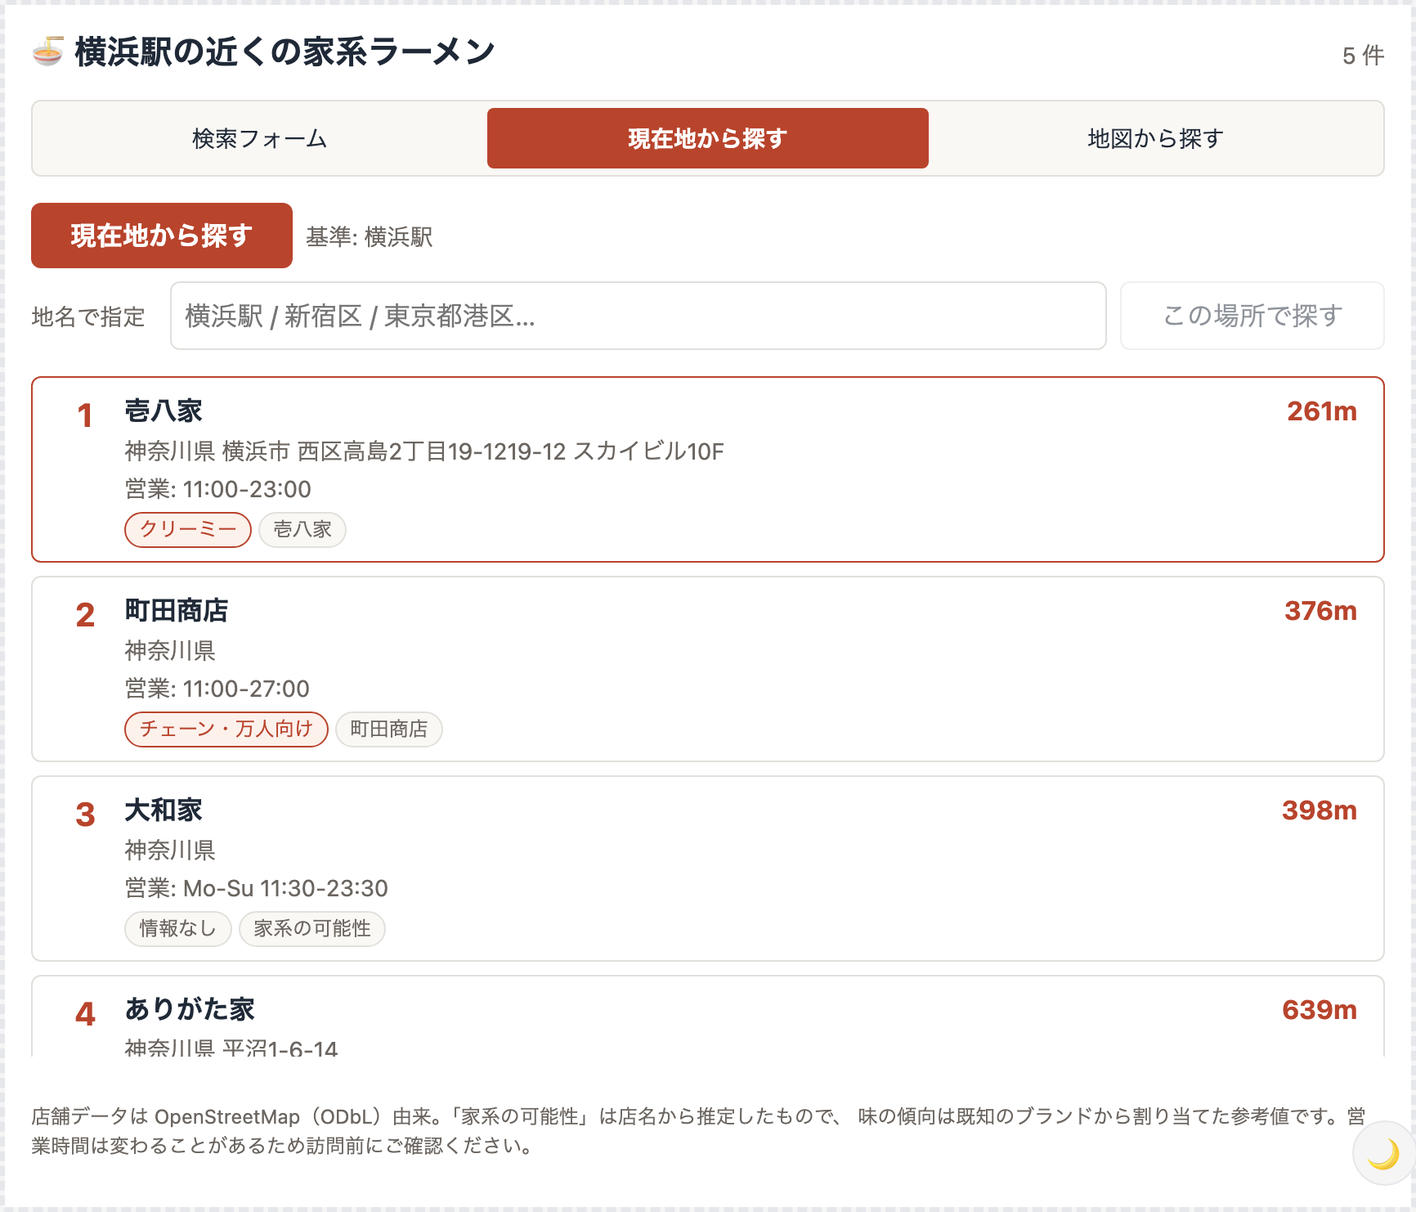
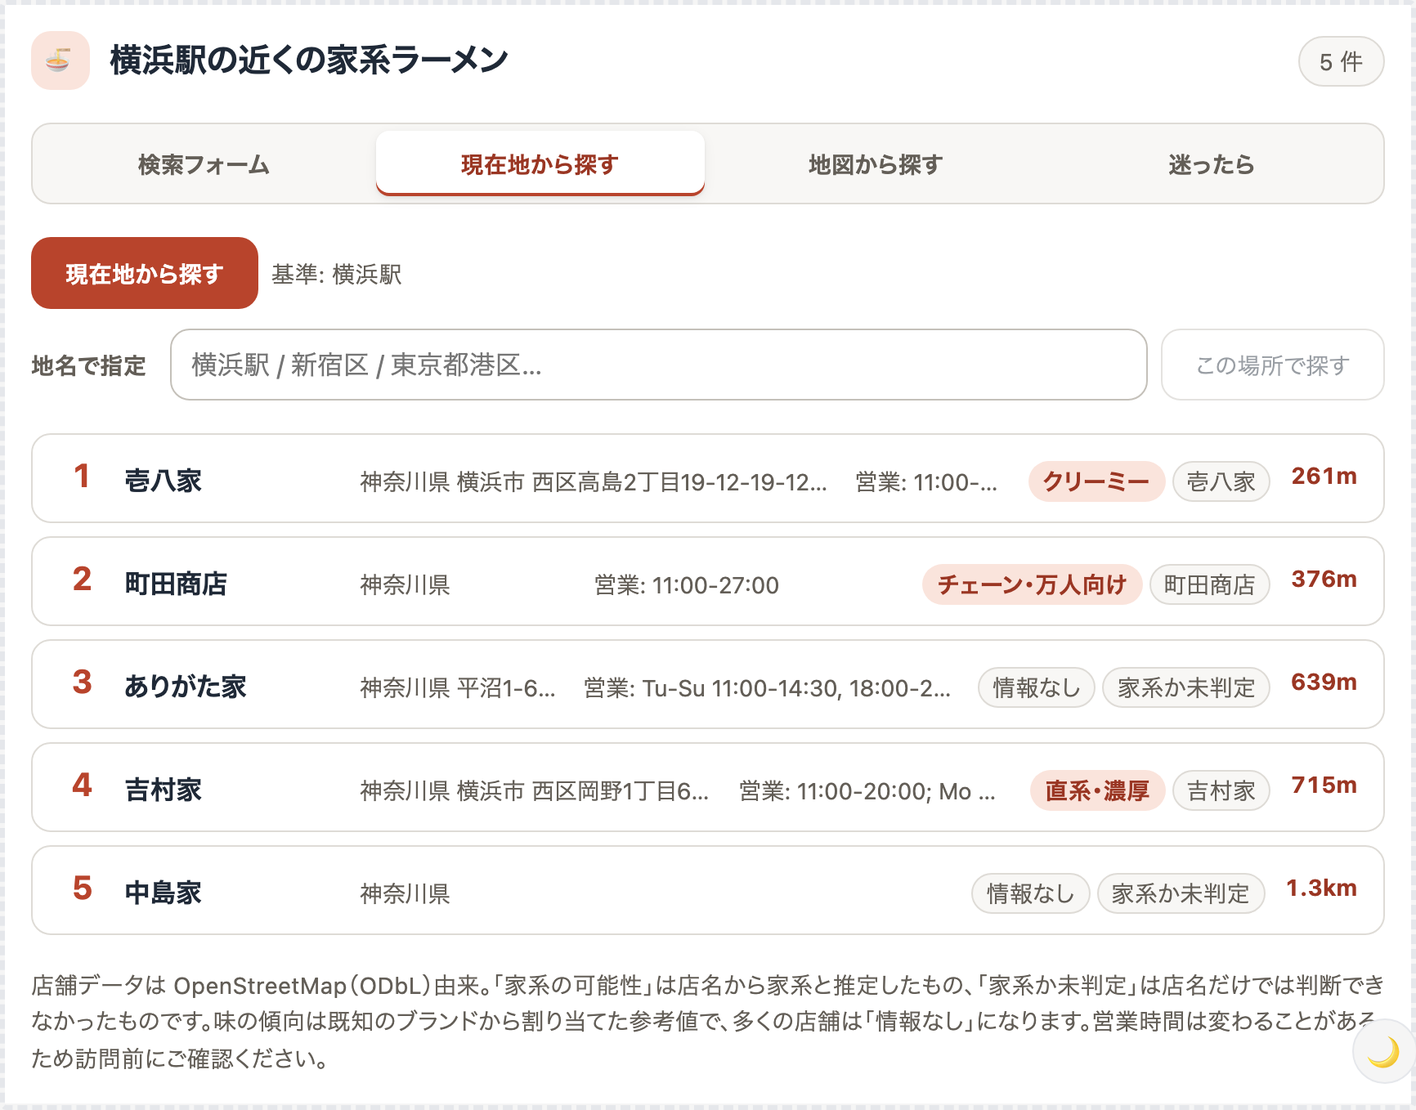
広いホストでカードを 1 行に収め、README を今の姿に合わせる (#16)
ChatGPT で「窮屈で見づらい」と言われたのを測ったところ、幅を活かせていな
かった。幅 1400px でもカード 1 枚が 108px を使い、一覧に 4 枚弱しか入らない
（横に 1000px 以上空いたまま縦に伸びる）。

  幅 1200px: カード 108px → 55px、見えるカード 3.9 → 7.6 枚

40rem 以上のときだけ、カードの中身（店名 / 住所・営業 / バッジ）を 1 行に
並べる。狭いホストは縦積みのまま。**カードを多列に割る案は採らない。**
詳細を「選んだカードの直下・同じ枠の中」に出す決まりが崩れ、枠を 2 つにする
作り（一度やって作り直した形）に戻るため。列を増やすより 1 枚を薄くする。

1 行を保つのは white-space: nowrap、溢れを防ぐのは min-width: 0。折り返しを
許すと 20 文字超の店名が 2 行になり（55px → 78px）、逆に店名を縮めないと
縮まない要素だけで幅を超えて一覧が横へ溢れる。どちらも 1 行にした意味を壊す。
削られる順番は flex-basis が決める（住所 0 = 余った幅だけ、店名 auto = 中身の幅）。

README は 3 モード時代のままだったので、今の姿に合わせた:

- スクリーンショット 4 点はいずれも 9/12 生成で、タブが 3 つだった頃の画面
- tool 一覧に decide-iekei-ramen が無い（5 つあるのに 4 つ）
- 「迷ったら」「まわる店」がどこにも書かれていない
- 撮影の仕組み自体も 3 モードしか撮っていなかった

docs/decide.png と docs/route.png を足し、既存 3 点と GIF を撮り直した。GIF は
流れが伸びて 3.6MB まで膨らんだので、幅 720px・128 色で 2.3MB に収めた。

CI の警告 12 件も消した。no-await-in-loop（E2E で 10 件）は scripts/**.mjs では
off にしてあるのに e2e/** に入れ忘れていたもので、UI の操作は順番に走らせる
必要があるので同じ扱いにする。actions/cache と upload-artifact だけ v4 のまま
だったので v5 に揃え、成功時に playwright-report/ が無いのにアップロードして
いたのを failure() のときだけにした。

**見落としていたのは検証のやり方が原因。** oxlint は警告があっても終了コード 0
を返すので、出力を error だけで拾うと通過に見える。npm run lint に
--deny-warnings を付けて、警告も終了コードに出るようにした。

レビューで見つかった 2 件も直した。どちらも「1 行に収める」と引き換えに別の
ものを壊していた:

- 40rem 直上で長い店名が 2 行に折り返す（1200px のテストでは素通りしていた）
- 店名を縮めない形にしたら、今度は横へ溢れる余地を作った

途中で flex-shrink の比（1 対 1000）を入れたが、比を戻して測っても店名の幅は
1px も動かず、効いていなかったので消した。順番を決めているのは flex-basis の方。

検証: ユニット 173 件 / E2E 67 件 / react-doctor 100 点 / design 指摘ゼロ、
[…]

diff --git a/e2e/app.spec.ts b/e2e/app.spec.ts
@@ -917,6 +917,97 @@ test.describe("選択中の店の詳細", () => {
   });
 });
 
+test.describe("一覧の詰め方", () => {
+  /*
+   * ChatGPT のような広いホストで「窮屈で見づらい」と言われたのがきっかけ。
+   * 幅が 1400px あってもカード 1 枚が 108px を使い、一覧に 4 枚弱しか
+   * 収まっていなかった（横に 1000px 以上空いたまま縦に伸びていた）。
+   */
+  test("広いホストでは、カードを 1 行に収めて数を見せる", async ({ page }) => {
+    await page.setViewportSize({ width: 1200, height: 820 });
+    const app = await callTool(page, "search-iekei-ramen", { prefecture: "神奈川県" });
+    await waitForApp(app);
+
+    const card = await shopCards(app).first().boundingBox();
+    expect(card).not.toBeNull();
+    // 縦積みだと 108px。1 行に並べれば半分ほどに収まる。
+    expect(card!.height).toBeLessThan(70);
+
+    // 同じ一覧の高さに倍近く並ぶ。
+    const list = await app.locator("ul").first().boundingBox();
+    expect(list!.height / card!.height).toBeGreaterThan(6);
+  });
+
+  test("横に並べ始めた直後の幅でも、長い店名を折り返さない", async ({ page }) => {
+    /*
+     * 40rem を少し超えたあたりが一番きつい。順位番号・バッジ・距離も同じ行に
+     * 並ぶので、店名に縮む指定（flex: 0 1 auto）を残していると真っ先に詰められ、
+     * 20 文字超の店名が 2 行になってカードが 55px → 78px に戻る。
+     *
+     * 広い幅（1200px）で短い店名だけ見ていても、この状態は捕まえられない。
+     */
+    await page.setViewportSize({ width: 720, height: 900 });
+    // 「横浜家系ラーメン 町田商店 柴田バイパス店」（21 文字）が 1 軒目に来る地点。
+    const app = await callTool(page, "find-nearby-iekei-ramen", {
+      lat: 38.0626,
+      lon: 140.7613,
+      label: "柴田",
+      source: "place",
+      limit: 5,
+    });
+    await waitForApp(app);
+    await expect(shopCards(app).first()).toContainText("柴田バイパス店");
+
+    const heights = await shopCards(app).evaluateAll((els) =>
+      els.map((e) => Math.round(e.getBoundingClientRect().height)),
+    );
+    // 1 行に収まっていれば 55px 前後。折り返すと 78px 以上になる。
+    expect(Math.max(...heights)).toBeLessThan(70);
+  });
+
+  test("横に並べても、一覧を横へ溢れさせない", async ({ page }) => {
+    /*
+     * 店名を縮めない指定にすると、縮まない要素（順位番号・バッジ・距離）だけで
+     * 幅を超えたときに一覧が横スクロールする。縦の 1 行化と引き換えに横が
+     * 壊れては意味がない。
+     *
+     * **いまのデータでは、縮めない指定に戻しても溢れない**（最長 21 文字の
+     * 「横浜家系ラーメン 町田商店 柴田バイパス店」でも収まる）。このテストは
+     * 判別力があるというより、店舗データを取り直して長い店名が増えたときに
+     * 気付くための網。
+     */
+    await page.setViewportSize({ width: 680, height: 900 });
+    const app = await callTool(page, "find-nearby-iekei-ramen", {
+      lat: 38.0626,
+      lon: 140.7613,
+      label: "柴田",
+      source: "place",
+      limit: 5,
+    });
+    await waitForApp(app);
+
+    const over = await app
+      .locator("ul")
+      .first()
+      .evaluate((ul) => ({
+        list: ul.scrollWidth - ul.clientWidth,
+        page: document.documentElement.scrollWidth - document.documentElement.clientWidth,
+      }));
+    expect(over.list).toBe(0);
+    expect(over.page).toBe(0);
+  });
+
+  test("狭いホストでは、カードを縦に積む", async ({ page }) => {
+    // 横に並べる余地が無いので、店名・住所・バッジを積んだまま読ませる。
+    await page.setViewportSize({ width: 420, height: 900 });
+    const app = await callTool(page, "search-iekei-ramen", { prefecture: "神奈川県" });
+    await waitForApp(app);
+
+    const card = await shopCards(app).first().boundingBox();
+    expect(card!.height).toBeGreaterThan(90);
+  });
+});
+
 test.describe("まわる店（順路）", () => {
   test("積んでいないうちは、空の枠を出さない", async ({ page }) => {
     // 空の枠は「まだ置かれていない場所」に見えて、操作できる何かだと誤解される。

diff --git a/src/mcp-app.module.css b/src/mcp-app.module.css
@@ -338,6 +338,60 @@
   gap: var(--space-1);
 }
 
+/*
+ * 広いホストでは、カードの中身を 1 行に並べる。
+ *
+ * 縦積みのままだと、幅が 1400px あってもカード 1 枚が 108px を使い、一覧に
+ * 4 枚弱しか収まらない（ChatGPT で「窮屈」と言われたのがこの状態）。横に
+ * 空いている場所へ住所とバッジを逃がすと、同じ高さで倍近く並ぶ。
+ *
+ * 1 列のまま横に並べるのは、詳細を「選んだカードの直下・同じ枠の中」に出す
+ * 決まりを保つため。カードを多列に割ると詳細の置き場所が無くなり、枠を
+ * 2 つにする作り（一度やって作り直した形）に戻ってしまう。
+ */
+@media (min-width: 40rem) {
+  .cardBody {
+    flex-direction: row;
+    align-items: baseline;
+    gap: var(--space-4);
+  }
+
+  /*
+   * **1 行を保つのは `nowrap`、溢れを防ぐのは `min-width: 0`。**
+   *
+   * 折り返しを許すと、順位番号・バッジ・距離も並ぶ行では 20 文字超の店名が
+   * 2 行になり、1 行にした意味が無くなる（55px → 78px）。逆に店名を縮めない
+   * （`0 0 auto`）と、縮まない要素だけで幅を超えたとき一覧が横へ溢れる。
+   * どちらも目的を壊すので、折り返さず・縮めて・最後に省略する。
+   *
+   * 削られる順番は `flex-basis` が決める。住所は `0` で「余った幅だけ」を
+   * 受け取るので真っ先に潰れ、店名は `auto`（中身の幅）なので、住所が
+   * 潰れてもまだ足りないときにだけ縮む。一覧で店を見分ける手がかりは店名
+   * しかないので、この順番を崩さないこと。
+   */
+  .cardBody > .shopName {
+    flex: 0 1 auto;
+    min-width: 0;
+    overflow: hidden;
+    text-overflow: ellipsis;
+    white-space: nowrap;
+  }
+
+  .cardBody > .meta {
+    flex: 1 1 0;
+    min-width: 0;
+    overflow: hidden;
+    text-overflow: ellipsis;
+    white-space: nowrap;
+  }
+
+  /* バッジは右端へ寄せ、折り返さない。 */
+  .cardBody > .badges {
+    flex: 0 0 auto;
+    margin-left: auto;
+  }
+}
+
 .shopName {
   font-weight: var(--font-weight-bold);
   letter-spacing: var(--letter-spacing-tight);

diff --git a/e2e/capture-demo.spec.ts b/e2e/capture-demo.spec.ts
@@ -37,10 +37,29 @@ test("デモ", async ({ page }) => {
   await expect(shopCards(app)).toHaveCount(5);
   await page.waitForTimeout(2500);
 
-  // 地図から探す
+  // 迷ったら — 3 軒に絞ってモデルに推させる
+  await app.getByRole("tab", { name: "迷ったら" }).click();
+  await expect(shopCards(app)).toHaveCount(3);
+  await page.waitForTimeout(2500);
+  await app.getByRole("button", { name: "別の候補を見る" }).click();
+  await page.waitForTimeout(2000);
+
+  // まわる店 — 2 軒を積んで順路を出す
+  await shopCards(app).nth(1).click();
+  await page.waitForTimeout(800);
+  await app.getByRole("button", { name: "まわる店に追加" }).click();
+  await page.waitForTimeout(600);
+  await shopCards(app).nth(0).click();
+  await page.waitForTimeout(600);
+  await app.getByRole("button", { name: "まわる店に追加" }).click();
+  await app.getByRole("button", { name: "選択を解除" }).click();
+  await expect(app.getByRole("region", { name: "まわる店" })).toBeVisible();
+  await page.waitForTimeout(3000);
+
+  // 地図から探す — 順路の線も出る
   await app.getByRole("tab", { name: "地図から探す" }).click();
   await expect(app.getByRole("application", { name: "家系ラーメン店の地図" })).toBeVisible();
   await page.waitForTimeout(4000);
   await app.locator("#pref").selectOption("東京都");
-  await page.waitForTimeout(4000);
+  await page.waitForTimeout(3500);
 });

diff --git a/e2e/capture.spec.ts b/e2e/capture.spec.ts
@@ -36,6 +36,40 @@ test("現在地から探す", async ({ page }) => {
   await shot(page, "nearby");
 });
 
+test("迷ったら", async ({ page }) => {
+  const app = await callTool(page, "decide-iekei-ramen", {
+    lat: 35.4658,
+    lon: 139.6222,
+    label: "横浜駅",
+    source: "place",
+  });
+  await waitForApp(app);
+  await expect(shopCards(app)).toHaveCount(3);
+  await shot(page, "decide");
+});
+
+test("まわる店", async ({ page }) => {
+  // 3 軒に絞った画面から 2 軒を積む。順路まで 1 枚に収めたいので少し縦を足す。
+  await page.setViewportSize({ width: 900, height: 900 });
+  const app = await callTool(page, "decide-iekei-ramen", {
+    lat: 35.4658,
+    lon: 139.6222,
+    label: "横浜駅",
+    source: "place",
+  });
+  await waitForApp(app);
+  await expect(shopCards(app)).toHaveCount(3);
+
+  for (const i of [1, 0]) {
+    await shopCards(app).nth(i).click();
+    await app.getByRole("button", { name: "まわる店に追加" }).click();
+  }
+  // 選択中のパネルを畳んで、順路だけを見せる。
+  await app.getByRole("button", { name: "選択を解除" }).click();
+  await expect(app.getByRole("region", { name: "まわる店" })).toBeVisible();
+  await shot(page, "route");
+});
+
 test("地図から探す", async ({ page }) => {
   const app = await callTool(page, "show-iekei-ramen-map");
   await waitForApp(app);

diff --git a/playwright.config.ts b/playwright.config.ts
@@ -34,7 +34,11 @@ export default defineConfig({
   fullyParallel: false,
   workers: 1,
   retries: process.env.CI ? 2 : 0,
-  reporter: process.env.CI ? "github" : "list",
+  /*
+   * CI では GitHub の注釈に加えて HTML レポートも出す。落ちたときに
+   * アップロードして中身を追うためで、成功したときは使わない。
+   */
+  reporter: process.env.CI ? [["github"], ["html", { open: "never" }]] : [["list"]],
   use: {
     baseURL: `http://localhost:${HOST_PORT}`,
     trace: "retain-on-failure",

diff --git a/README.md b/README.md
@@ -2,33 +2,53 @@
 
 [![CI](https://github.com/yamazaki-yuki-23/iekei-ramen-mcp-apps/actions/workflows/ci.yml/badge.svg)](https://github.com/yamazaki-yuki-23/iekei-ramen-mcp-apps/actions/workflows/ci.yml)
 
-家系ラーメン店を「検索フォーム」「現在地から探す」「地図から探す」の 3 モードで
-探せる MCP Apps です。Claude などの MCP Apps 対応ホストの中で UI が動きます。
+家系ラーメン店を探して、**今日どこで食べるかを決めるところまで**繋ぐ MCP Apps です。
+Claude などの MCP Apps 対応ホストの中で UI が動きます。
 
-![3 モードを切り替えて家系ラーメンを探すデモ](docs/demo.gif)
+> 558 件の一覧を出しても満足は生まれません。決まったときに生まれます。
+> だから「絞り込む」だけでなく、**3 軒まで落とす**（迷ったら）と
+> **回る順番を出す**（まわる店）までを画面に持っています。
+
+![4 モードを切り替えて家系ラーメンを探し、順路まで出すデモ](docs/demo.gif)
 
 | 検索フォーム                                                 | 現在地から探す                                    | 地図から探す                                       |
 | ------------------------------------------------------------ | ------------------------------------------------- | -------------------------------------------------- |
 | ![都道府県と味の傾向で絞り込む検索フォーム](docs/search.png) | ![横浜駅から近い順に 5 件の一覧](docs/nearby.png) | ![全国 558 店舗を日本地図にプロット](docs/map.png) |
 
-|                    |                                                      |
-| ------------------ | ---------------------------------------------------- |
-| **検索フォーム**   | 都道府県・味の傾向・キーワードで全国から絞り込む     |
-| **現在地から探す** | 位置情報または地名から、近い順に 5 店舗を提案する    |
-| **地図から探す**   | 全国の店舗を日本地図にプロットし、ピンから詳細を開く |
+| 迷ったら                                                | まわる店                                                  |
+| ------------------------------------------------------- | --------------------------------------------------------- |
+| ![横浜駅から近い 3 軒に絞り込んだ画面](docs/decide.png) | ![2 軒を積んで回る順番と距離を出した画面](docs/route.png) |
+
+|                    |                                                              |
+| ------------------ | ------------------------------------------------------------ |
+| **検索フォーム**   | 都道府県・味の傾向・キーワードで全国から絞り込む             |
+| **現在地から探す** | 位置情報または地名から、近い順に 5 店舗を提案する            |
+| **地図から探す**   | 全国の店舗を日本地図にプロットし、ピンから詳細を開く         |
+| **迷ったら**       | 条件から 3 軒まで落とし、その中の 1 軒をモデルに推してもらう |
+| **まわる店**       | 2〜3 軒を積むと回る順番と距離を出し、Google マップへ渡す     |
+
+選んだ 1 軒はモデルにも渡るので、そのまま「この店どう？」と聞けます。
+券売機の前で困らないよう、**注文のしかた**（お好み・卓上・ライス）も
+選択中の店のパネルに畳んで置いてあります。
 
 スクリーンショットと GIF は `npm run capture` で自動生成しています
-（[e2e/capture.spec.ts](e2e/capture.spec.ts)）。
+（[e2e/capture.spec.ts](e2e/capture.spec.ts) と
+[e2e/capture-demo.spec.ts](e2e/capture-demo.spec.ts)）。
+画面を変えたら撮り直してください。
 
 ## 構成
 
 | ファイル                      | 役割                                                              |
 | ----------------------------- | ----------------------------------------------------------------- |
-| `server.ts`                   | MCP サーバー本体。3 つの UI 付き tool と補助 tool を登録          |
+| `server.ts`                   | MCP サーバー本体。4 つの UI 付き tool と補助 tool を登録          |
 | `worker.ts`                   | Cloudflare Workers エントリ（`/mcp` で Streamable HTTP を受ける） |
 | `main.ts`                     | ローカル実行エントリ（HTTP / stdio）                              |
 | `src/mcp-app.tsx`             | UI のシェル。モード切り替えと tool 呼び出し                       |
-| `src/components/`             | 検索フォーム / 一覧 / 現在地パネル / 地図                         |
+| `src/components/`             | 検索フォーム / 一覧 / 現在地パネル / 地図 / 迷ったら / まわる店   |
+| `src/lib/shortlist.ts`        | 「迷ったら」の 3 軒の選び方。おすすめ順は作らない                 |
+| `src/lib/route.ts`            | 「まわる店」の順番と距離、地図アプリへ渡す URL                    |
+| `src/lib/model-context.ts`    | 選んだ 1 軒をモデルへ渡す列（順番・失敗・やり直し）               |
+| `src/lib/shop-brief.ts`       | モデルに渡す文面。推定には但し書きを付ける                        |
 | `scripts/fetch-shops.mjs`     | OpenStreetMap から店舗データを取得                                |
 | `scripts/judgments.mjs`       | TypeSafe に投げる質問と閾値。判定を変えるならここだけ見る         |
 | `scripts/judge-all.mjs`       | 家系判定を実行して `data/judged.json` に保存                      |
@@ -38,12 +58,13 @@
 
 ## tool 一覧
 
-| tool                      | 内容                                        |
-| ------------------------- | ------------------------------------------- |
-| `search-iekei-ramen`      | 都道府県 / 味の傾向 / キーワードで絞り込み  |
-| `find-nearby-iekei-ramen` | 緯度経度から近い順に 5 件（既定）           |
-| `show-iekei-ramen-map`    | 日本地図にプロット                          |
-| `geocode-place`           | 地名 → 緯度経度（UI が内部で使う。UI なし） |
+| tool                      | 内容                                           |
+| ------------------------- | ---------------------------------------------- |
+| `search-iekei-ramen`      | 都道府県 / 味の傾向 / キーワードで絞り込み     |
+| `find-nearby-iekei-ramen` | 緯度経度から近い順に 5 件（既定）              |
+| `show-iekei-ramen-map`    | 日本地図にプロット                             |
+| `decide-iekei-ramen`      | 3 軒まで落として、1 軒を理由つきで推してもらう |
+| `geocode-place`           | 地名 → 緯度経度（UI が内部で使う。UI なし）    |
 
 ## セットアップ
 
@@ -80,7 +101,7 @@ npm run dev:worker
 
 ```bash
 npm test            # vitest（80 件）距離計算・家系判定・MCP サーバーの結合テスト
-npm run e2e         # playwright（19 件）実ブラウザで 3 モードを操作する E2E
+npm run e2e         # playwright（65 件）実ブラウザで 4 モードと順路を操作する E2E
 npm run lint        # oxlint
 npm run format      # oxfmt（CI では format:check）
 npm run knip        # 未使用のコード・依存の検出

diff --git a/CLAUDE.md b/CLAUDE.md
@@ -20,7 +20,7 @@ npm run data:build   # judged.json + osm-raw.json → shops.json（API 不要）
 npm run doctor      # react-doctor（React 固有の壊れ方を見る）
 npm test            # vitest（距離計算・家系判定・MCP サーバーの結合テスト）
 npm run e2e         # playwright（basic-host 経由の実ブラウザテスト）
-npm run lint        # oxlint
+npm run lint        # oxlint（--deny-warnings。警告も落とす）
 npm run format      # oxfmt（--check は format:check）
 npm run knip        # 未使用のコード・依存の検出
 ```
@@ -31,6 +31,11 @@ npm run knip        # 未使用のコード・依存の検出
 （`setup-node` の `node-version-file`）。手元がずれると CI で再現しない不具合が出るので、
 `nvm use` / `mise use node` などで揃えてから作業する。`@types/node` もここに合わせる。
 型だけ先に上げると、実行環境に無い API が型として通ってしまう。
+
+**検証の結果は最後まで見ること。** `oxlint` は警告があっても終了コード 0 を
+返すので、出力を `error` だけで拾うと見落とす（実際に `no-await-in-loop` の
+警告 10 件を「通過」と報告してしまい、CI の注釈で気付いた）。`npm run lint` に
+`--deny-warnings` を付けてあるので、いまは警告も終了コードに出る。
 
 コミット時に react-doctor がステージ済みファイルを見る（`.githooks/pre-commit`）。
 `npm install` が `core.hooksPath` を張るので、clone 直後に 1 回入れれば効く。
